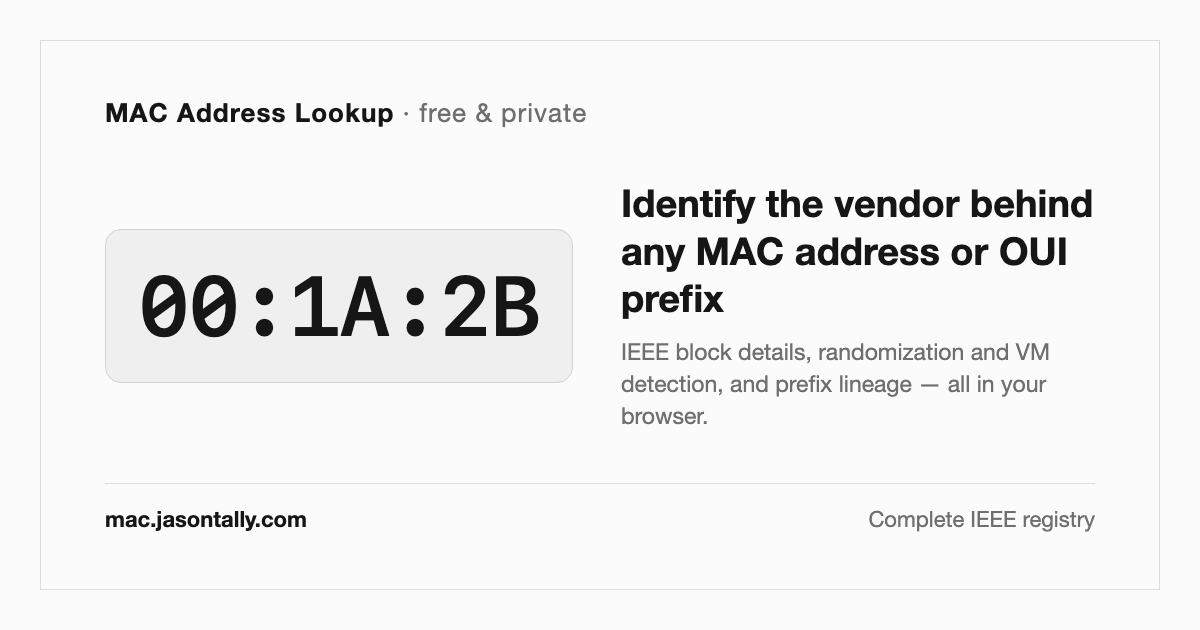
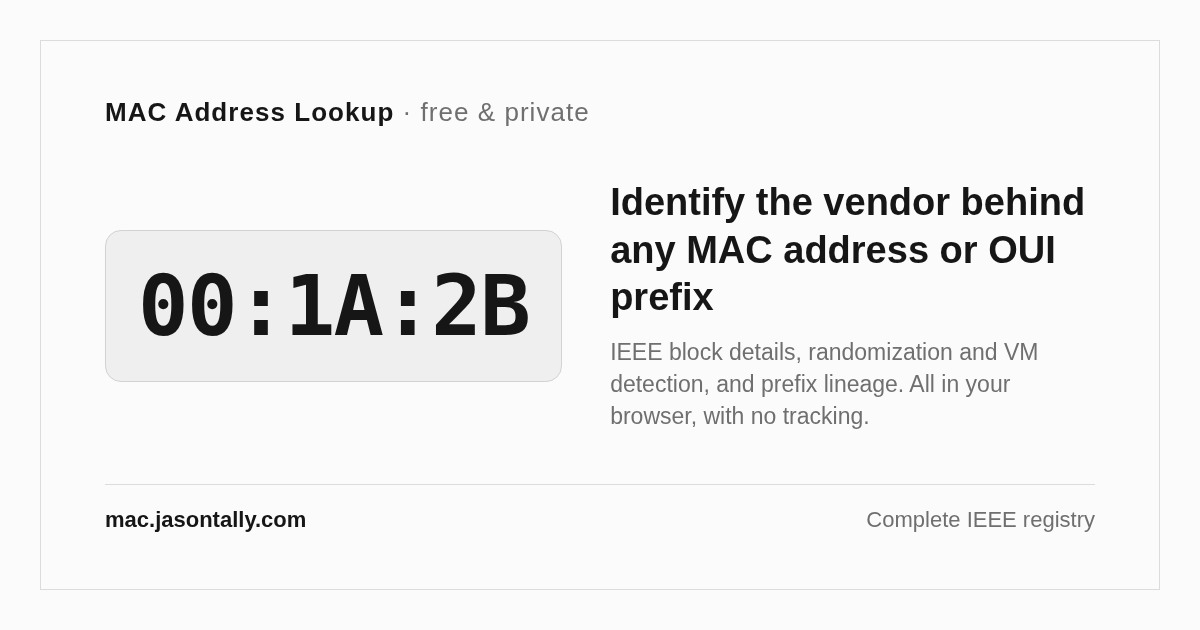
docs: launch-readiness copy pass across README, docs, help, and agent files
- README: split fused feature bullet; dedupe intro/privacy paragraphs;
  align hub/dimension page claims with the live URL surface; fix
  help.md label/target mapping; CSS size 16->18 KB
- docs: architecture.md drift fixes (batch cap 250, lineage ~240 KB,
  sitemap-scope reality, footer -> home hub-nav links, e2e usage);
  thin-content-mitigation.md and design.md staleness notes
- generators: agent-files.mjs privacy wording per resolved Open item #1,
  31-language claims with RTL triplet; og-card em dash removed and
  regenerated
- help.html: language-support paragraph, dimension-index cross-reference,
  footer help link
- i18n: add missing en.mjs batch.exportCsv/exportJson keys (English batch
  view rendered raw i18n keys); update two e2e specs to the current
  footer/nav reality

Verified: npm test (153 pass), npm run build, npm run test:e2e (42 pass),
locale-sweep (31/31), i18n-audit clean.

diff --git a/public/help.html b/public/help.html
@@ -110,6 +110,10 @@
             multicast addresses, and the U/L bit marks locally administered addresses such as randomized
             privacy addresses and virtual machines.
           </p>
+          <p>
+            The interface runs in 31 languages (English plus 30 translations; Urdu, Arabic, and Persian
+            render right-to-left): switch it with the language picker in the header's toolbar.
+          </p>
 
           <h2 data-i18n="help.blockTypes">MAC address block types</h2>
           <div class="table-wrap">
@@ -143,7 +147,8 @@
           <h2>Browse by registration dimension</h2>
           <p>
             Besides prefix pages, the site pre-renders reference pages organized by the
-            registration itself, each with its complete table:
+            registration itself, each with its complete table. The home page links
+            every index under "MAC address by":
           </p>
           <ul>
             <li><a href="/country">Country index</a> - <code>/country</code>: every country with at least one registered MAC address block, with organization, block, and address totals, each row linking the country's full page.</li>
@@ -193,6 +198,7 @@
         </p>
         <p>
           <span data-i18n="footer.dataNote">All lookups run in your browser, and the addresses you look up are never processed by a server.</span>
+          <a href="/help" data-i18n="footer.help">Help &amp; documentation</a> ·
           <a href="https://github.com/jasontally/mac-address-lookup" rel="noopener" data-i18n="footer.source">Source on GitHub</a>
         </p>
       </div>

diff --git a/docs/architecture.md b/docs/architecture.md
@@ -6,7 +6,7 @@ Related docs: [design language](design.md) · [README](../README.md)
 
 ## Overview
 
-A static, assets-only Cloudflare Worker serving a client-side MAC address lookup tool. Pre-rendered HTML pages cover the largest and most-searched IEEE prefixes so search engines can index them and people can find them; everything else (trimmed long-tail prefixes, full-MAC deep links, is resolved in the browser via the SPA fallback. The registry and its prefix-lineage history ship as two small Parquet files read with Hyparquet. No server code, no API, no in-app analytics. The project is feature-complete; this document is the maintenance reference.
+A static, assets-only Cloudflare Worker serving a client-side MAC address lookup tool. Pre-rendered HTML pages cover the largest and most-searched IEEE prefixes so search engines can index them and people can find them; everything else (trimmed long-tail prefixes, full-MAC deep links) is resolved in the browser via the SPA fallback. The registry and its prefix-lineage history ship as two small Parquet files read with Hyparquet. No server code, no API, no in-app analytics. The project is feature-complete; this document is the maintenance reference.
 
 ```
 Build (Workers Builds)                          Runtime (Cloudflare edge)
@@ -26,12 +26,12 @@ Build (Workers Builds)                          Runtime (Cloudflare edge)
 | Hosting | Cloudflare Workers Static Assets, assets-only (no Worker script), paid plan |
 | Fallback | `not_found_handling: "single-page-application"` → `200` + shell for unmatched paths |
 | Data | Apache Parquet files (registry + lean search index + lineage), read in-browser with Hyparquet; Apache Arrow JS not used |
-| Indexing | Pre-rendered priority tiers, flat `<prefix>.html` pages, canonical uppercase URLs, sitemap for pre-rendered pages only (provisional) |
+| Indexing | Pre-rendered priority tiers, flat `<prefix>.html` pages, canonical uppercase URLs, sitemap covers the pre-rendered pages selected by the active `SITEMAP_SCOPE` (currently `country`: core + rollups + country hubs + dimension pages; still provisional — see the sitemap indexing plan) |
 | Design | Kumo-inspired semantic tokens, monochrome + status colors, system font stack, system-aware dark mode + toggle |
 | Deep links | Every single-segment path: `/001A2B`, `/apple`, `/001A2B,005056` (comma-separated batch, cap 250); legacy `?q=` still accepted and canonicalized to the path form |
 | Partials | < 6 hex lists matching prefixes, capped at 500 with total count |
 | Build/deploy | Cloudflare Workers Builds, push-triggered; manual data refresh by bumping `data/refresh.txt` |
-| Analytics | None in the app; seed vendor-demand list drives page priority |
+| Analytics | None in the app; seed vendor-demand list drives page priority; the Cloudflare zone injects privacy-first, cookieless Web Analytics (resolved 2026-09-21, see Open items #1) |
 
 ## Repository layout
 
@@ -80,7 +80,7 @@ mac-address-lookup/
 2. **Fetch lineage** (`build/fetch-lineage.mjs`): the runZero mac-tracker history JSON (MIT, updated twice daily) — dated `add`/`change` records per prefix going back to ~1998. Uses the same retry helper as the registries.
 3. **Normalize registries**: trim and validate hex assignments; uppercase; derive `prefixLength` (24/28/36 bits), `addressCount`, and `country` (parsed from the address tail); mark `Private`/empty organizations; dedupe; sort by prefix value.
 4. **Build lineage** (`build/lineage.mjs`): normalize organization names (case, punctuation), drop `Private`/empty glitches, collapse consecutive identical organizations, and keep prefixes with at least two distinct organizations. `buildFirstSeen` also derives the earliest observed date for every tracked prefix. **Measured 2026-09-12: 5,665 changed prefixes / 14,350 events.**
-5. **Write Parquet** (`dist/data/registry.<hash>.parquet`, prefix-trie shards under `dist/data/shards/`, and `lineage.<hash>.parquet`) with `hyparquet-writer`, snappy compression. Registry columns: `prefix`, `prefixLen` (bits), `blockType`, `addressCount`, `orgName`, `orgAddress`, `country`, `isPrivate`, `firstSeen`, `lineageCount` (events for changed prefixes), `vendorBlocks`, `vendorAddresses` (global vendor totals repeated per row so a single shard reports correct portfolio stats), `vendorHub` (hub slug for orgs with ≥ 2 blocks — see [thin-content-mitigation](thin-content-mitigation.md); additive, resolved at build time so client links and static hub files always agree). Shards split any prefix group over 1,500 rows by the next hex digit, so hot ranges (IAB under `00:50:C2`, MA-S under `8C:1F:64`) get deep keys while quiet ranges stay shallow. **Measured 2026-09-23: registry 3.11 MB / 58,783 records; lineage 232 KB; search index 1.22 MB; 293 shards totaling 4.59 MB.**
+5. **Write Parquet** (`dist/data/registry.<hash>.parquet`, prefix-trie shards under `dist/data/shards/`, and `lineage.<hash>.parquet`) with `hyparquet-writer`, snappy compression. Registry columns: `prefix`, `prefixLen` (bits), `blockType`, `addressCount`, `orgName`, `orgAddress`, `country`, `isPrivate`, `firstSeen`, `lineageCount` (events for changed prefixes), `vendorBlocks`, `vendorAddresses` (global vendor totals repeated per row so a single shard reports correct portfolio stats), `vendorHub` (hub slug for orgs with ≥ 2 blocks — see [thin-content-mitigation](thin-content-mitigation.md); additive, resolved at build time so client links and static hub files always agree). Shards split any prefix group over 1,500 rows by the next hex digit, so hot ranges (IAB under `00:50:C2`, MA-S under `8C:1F:64`) get deep keys while quiet ranges stay shallow. **Measured 2026-09-23: registry 3.11 MB / 58,783 records; search index 1.22 MB; 293 shards totaling 4.59 MB; the lineage file was 232 KB then and ~240 KB at the 2026-09-25 refresh.**
 6. **Emit manifest** (`dist/data/manifest.json`): content-hashed filenames, `generatedAt`, counts by block type, schema version, and lineage source attribution (name, homepage, license, retrieval time).
 7. **Budget checks** (`build/budget.mjs`): file-count and file-size assertions — see [Capacity & page budget](#capacity--page-budget).
 
@@ -112,7 +112,7 @@ The data lives in its own Parquet file so it can be updated, attributed, and rea
 ## Client engine
 
 - **Loading**: the app fetches `data/manifest.json`, then loads only what the input needs. Full addresses and 6+ hex prefixes select the trie shards whose keys are prefixes of the input (usually one small file); partial prefixes select the shards that extend the input (up to 24, then the full registry). Free-text search and wide batches use the full registry, and only search (which matches former owners) loads the lineage file eagerly. On dynamic deep links an inline head script preloads the manifest and the matching shard(s) before the app bundle runs, and `loadRegistryFor` consumes those promises instead of refetching. Pre-rendered pages do not load any data at all; the embedded record covers the initial render.
-- **Lazy lineage**: registry rows carry `lineageCount`, so a matched prefix without lineage never fetches the 232 KB lineage file. Changed prefixes load it (before first render, so the timeline is inline and nothing shifts); search loads it for former-owner matching.
+- **Lazy lineage**: registry rows carry `lineageCount`, so a matched prefix without lineage never fetches the ~240 KB lineage file. Changed prefixes load it (before first render, so the timeline is inline and nothing shifts); search loads it for former-owner matching.
 - **Lineage**: `createLineageIndex` groups event rows per prefix and exposes `forPrefix(prefix)`; `loadRegistry` returns `{ manifest, registry, lineage }`.
 - **Normalization**: strip separators (`:` `-` `.` space), uppercase, validate `[0-9A-F]`, accept 1–12 hex digits.
 - **Lookup**: longest-prefix match over 9-hex (MA-S/IAB), 7-hex (MA-M), 6-hex (MA-L/CID), using a first-byte index over sorted prefix arrays.
@@ -121,7 +121,7 @@ The data lives in its own Parquet file so it can be updated, attributed, and rea
 - **VM/hypervisor detection**: known prefix map (VMware, VirtualBox, Microsoft Hyper-V/Virtual PC, Parallels, Xen, QEMU/KVM, Docker).
 - **Format conversions**: colon, hyphen, Cisco dot, plain hex, EUI-64, IPv6 link-local.
 - **Input routing**: a valid address/prefix is looked up directly; otherwise full MACs are extracted from pasted text; if none are found, the input is treated as a free-text search.
-- **Text extraction** (`extractMacs`): colon, hyphen, Cisco-dot, space-separated, and bare 12-hex formats; bare matches require clean boundaries so UUID tails and longer identifiers are ignored; deduped, capped at 100.
+- **Text extraction** (`extractMacs`): colon, hyphen, Cisco-dot, space-separated, and bare 12-hex formats; bare matches require clean boundaries so UUID tails and longer identifiers are ignored; deduped; batch caps at 250 (`MAX_BATCH` in `src/ui/app.mjs`).
 - **Free-text search** (`searchRegistry`): matches current organizations, former organizations from lineage, country names and codes, registry types, prefixes, and registration years; all tokens must match; ranked by match quality; capped at 500; results are `noindex`.
 - **Summaries** (`summarizeLookups`): batch and extraction views show counts by vendor, randomized addresses, virtual machines, unregistered prefixes, and invalid inputs.
 - **Vendor portfolios** (`registry.portfolio`): registered block count and total address space per organization, shown on results with a "View all prefixes" action that navigates to the org's static hub (`/vendor/<slug>`, resolved via the registry's `vendor_hub` column); search-result portfolio lines link there too.
@@ -136,7 +136,7 @@ The data lives in its own Parquet file so it can be updated, attributed, and rea
 - `src/ui/theme.mjs` — system-aware dark mode with explicit override
 - `src/ui/clipboard.mjs` — copy buttons with insecure-context fallback
 - `public/index.html` — indexable shell (search + FAQ); the app hydrates results on top
-- esbuild bundles `app.mjs` + engine + Hyparquet into `dist/assets/app.<hash>.js` (~91 KB); CSS is bundled into one hashed ~16 KB file
+- esbuild bundles `app.mjs` + engine + Hyparquet into `dist/assets/app.<hash>.js` (~91 KB); CSS is bundled into one hashed ~18 KB file
 
 ## Platform constraints
 
@@ -219,7 +219,7 @@ Dropped prefixes still work: the client-side engine resolves every assignment, a
 
 ### 25 MiB file-size strategy
 
-- Full-registry Parquet measured at 3.11 MB + 232 KB, well under 25 MiB. Measure at build time.
+- Full-registry Parquet measured at 3.11 MB + ~240 KB, well under 25 MiB. Measure at build time.
 - **Build-time assertion**: any single asset > 20 MiB (5 MiB safety margin) fails the build and triggers sharding instead of shipping.
 - **Sharding plan** (implemented): records are partitioned into a prefix trie where any group over 1,500 rows splits by the next hex digit, producing variable-length keys. The client selects shards by prefix relationship (ancestors for full addresses, descendants for partials) and falls back to the full registry beyond 24 shards. Each shard file is content-hashed and cached immutably.
 - **Sitemaps** chunk at 50,000 URLs (Google limit), targeting < 10 MiB per file.
@@ -248,8 +248,8 @@ a second block), so the portal/prefix split inside the 90,000 cap self-balances.
 - **Related-prefix links** (`build/related.mjs`): same-org siblings (≤ 6), adjacent prefixes (2), same-year cohort (≤ 4), deduped and capped at 12 links per page, targets limited to pre-rendered pages. Sections live inside `#result`, so a follow-up lookup clears them with the card ([thin-content-mitigation](thin-content-mitigation.md)).
 - **Per-page context** (`build/enrich.mjs`): at most three computed sentences — portfolio position (`vendorBlocks`/`vendorAddresses`), block-type note for non-MA-L assignments, and a "org's oldest registration" note. English rendered statically; raw params ride in `data-enrich` for the client locale swap. Omitted, never padded, when data is missing.
 - **Hub pages** (`build/hubs.mjs`): `/vendor/<slug>` for every org with ≥ 2 blocks (3,472; grouping uses the same `normalizeOrgName` key as the portfolio stats, slugs resolve collisions by sorted org key) and `/country/<code>` for every country (127). Complete static tables (no row caps — the plan's sizing holds: Apple 240 KB, US 1.3 MB raw; ~10:1 compression at the edge), lookup form wired via the static-page path, `CollectionPage` + `BreadcrumbList` JSON-LD, canonical URLs, `data-static-page` hydration. Every country-table row is a link: multi-block orgs go to their org hub, single-block orgs (29,897 of the 33,567 rows) to the pre-rendered page of their only block, and both are checked against the page-budget selection so a row never targets the SPA shell.
-- **Country rollup index** (`/country`, 2026-09-22): the page over the 127 country pages — one row per country (linked name, ISO code, organizations, blocks, addresses) sorted by address space, with the totals in the lede (blocks and addresses summed; organizations counted **distinct**, since one org can register in several countries). Written as root-level `country.html` beside the `country/` directory so the canonical is extensionless `/country` like `/help` and `/recent`; it leads the `country` sitemap scope, is the breadcrumb parent of every country page (`renderPage`'s `breadcrumbParent`), and is linked from every footer except its own (`footer.countries`), plus `/help` and the agent files (`llms.txt`, `help.md`).
-- **Vendor rollup index** (`/vendor`, 2026-09-23): the page over the 3,472 vendor pages — one row per organization with two or more blocks (linked name, blocks, addresses) sorted by address space, with the totals in the lede (blocks and addresses summed; one row per organization). Written as root-level `vendor.html` beside the `vendor/` directory so the canonical is extensionless `/vendor`; it leads the `country` sitemap scope alongside `/country` (build.mjs), is the breadcrumb parent of every vendor page (`renderPage`'s `breadcrumbParent`), and is linked from every footer except its own (`footer.vendors`), plus `/help` and the agent files (`llms.txt`, `help.md`).
+- **Country rollup index** (`/country`, 2026-09-22): the page over the 127 country pages — one row per country (linked name, ISO code, organizations, blocks, addresses) sorted by address space, with the totals in the lede (blocks and addresses summed; organizations counted **distinct**, since one org can register in several countries). Written as root-level `country.html` beside the `country/` directory so the canonical is extensionless `/country` like `/help` and `/recent`; it leads the `country` sitemap scope, is the breadcrumb parent of every country page (`renderPage`'s `breadcrumbParent`), and is linked from the home page's hub nav (`hub.nav.countries`), plus `/help` and the agent files (`llms.txt`, `help.md`).
+- **Vendor rollup index** (`/vendor`, 2026-09-23): the page over the 3,472 vendor pages — one row per organization with two or more blocks (linked name, blocks, addresses) sorted by address space, with the totals in the lede (blocks and addresses summed; one row per organization). Written as root-level `vendor.html` beside the `vendor/` directory so the canonical is extensionless `/vendor`; it leads the `country` sitemap scope alongside `/country` (build.mjs), is the breadcrumb parent of every vendor page (`renderPage`'s `breadcrumbParent`), and is linked from the home page's hub nav (`hub.nav.vendors`), plus `/help` and the agent files (`llms.txt`, `help.md`).
 - **Dimension pages** (`build/dimensions.mjs`, 2026-09-25): registry type
   (`/registry/<type>`), first-observed year (`/year/<year>`), region
   (`/region/<slug>`), ownership history (`/history/<year>` and
@@ -278,7 +278,7 @@ a second block), so the portal/prefix split inside the 90,000 cap self-balances.
 - Dynamic routes start the manifest and Parquet fetches from an inline head script, in parallel with the app bundle download.
 - Content below the result is hidden until a dynamic lookup renders (removing the layout shift from inserting the result card; desktop CLS was 0.296 before this change).
 - Asset filenames are content-hashed and cached immutably; the manifest is always revalidated.
-- Prefix-trie sharding cuts a dynamic deep link from the 3.1 MB full registry to one small shard (the `001B` example is 30 KB), and lazy lineage keeps the 232 KB lineage file out of lookups entirely unless the matched prefix changed hands. Measured payload for `/001B21AABBCC` is ~150 KB including JS, CSS, manifest, and shard (vs ~3.35 MB before sharding); changed prefixes add the lineage file.
+- Prefix-trie sharding cuts a dynamic deep link from the 3.1 MB full registry to one small shard (the `001B` example is 30 KB), and lazy lineage keeps the ~240 KB lineage file out of lookups entirely unless the matched prefix changed hands. Measured payload for `/001B21AABBCC` is ~150 KB including JS, CSS, manifest, and shard (vs ~3.35 MB before sharding); changed prefixes add the lineage file.
 
 ### Measured limits (2026-09-15, `e2e/measure-limits.mjs` / `e2e/measure-engine.mjs`)
 
@@ -302,7 +302,7 @@ production edge.
 For AI agents and scripts that cannot reasonably ingest the 13.6 MB
 `registry.ndjson` (verified live: a ChatGPT web tool refuses it at its content-size
 limit, and binary Parquet is refused as `application/octet-stream`), the build
-also emits the same registry rows as plain-text trie shards:
+also emits the same assignments as plain-text trie shards:
 
 - `dist/data/registry/{key}.txt` — one JSON object per line (same schema as
   `registry.ndjson`), grouped by the same trie partition as the browser Parquet
@@ -362,9 +362,9 @@ live and internally linked in every phase, so trimming rows cannot deindex
 anything already indexed, and prefix pages Google already knows about are
 unaffected. What actually drives hub discovery without the sitemap is internal
 linking — every prefix page links its vendor/country/former hubs and related
-prefixes, every country page breadcrumbs up to `/country`, and every footer
-carries a Countries link, so the indexed subset keeps the rest of the graph
-reachable.
+prefixes, every country page breadcrumbs up to `/country`, and the home page's
+hub nav carries a Countries link, so the indexed subset keeps the rest of the
+graph reachable.
 
 | Phase | `SITEMAP_SCOPE` | Sitemap URLs | Flip when (Search Console gate, user-side) |
 | --- | --- | --- | --- |
@@ -392,13 +392,22 @@ vendor hubs, `/recent` rows linking hubs) before retrying expansion.
 them (+30 over the pre-multilingual counts). (2026-09-22) the default moved
 from `core` to `country` — country hubs are the second-rarest page class, they
 are the target of the prefix pages' country links, and the IndexNow manifest
+**Notes:** (2026-09-18) "core" includes the 30 localized home pages
+(`/lang/{locale}/`; see the multilingual plan below), so every scope carries
+them (+30 over the pre-multilingual counts). (2026-09-22) the default moved
+from `core` to `country` — country hubs are the second-rarest page class, they
+are the target of the prefix pages' country links, and the IndexNow manifest
 (`finalizePageHashes`) intersects changed URLs with the same scope, so the
 country pages now ride along in post-deploy pings too. (2026-09-22, same day)
 the country set gained the `/country` rollup index as its first row, so the
 scope was 283 URLs (33 core + 1 index + 249 hubs); (2026-09-23) the `/vendor`
 rollup joined it — 284 URLs (33 core + 2 indexes + 249 hubs); later the same
 day the ISO-code country fix pruned the invalid-code hubs — 162 URLs (33
-core + 2 indexes + 127 hubs).
+core + 2 indexes + 127 hubs). (2026-09-25) the dimension pages joined the mix
+(`/registry`, `/year`, `/region`, `/history`, `/successor` indexes + detail
+pages in the `country` scope — see the Pre-rendered pages section); the
+current build's `country` scope renders 539 URLs, and the `hubs`/`all` phase
+counts above predate that and will be larger when they ship.
 
 ## Multilingual discoverability plan (Tier 1 + Tier 2, 2026-09-18)
 
@@ -452,13 +461,14 @@ other languages. The former `src/i18n/seo.mjs` / `seoFor` are now
   head phrase of the authored home titles in `src/i18n/discovery.mjs`. The
   English "MAC Address Lookup" remains the canonical name in crawlable
   HTML, JSON-LD, `og:site_name`, and the fallback `en` table.
-- **Punctuation policy (2026-09-21):** no em dashes. Titles separate the
-  page part from the brand with `|`; the identifier inside a title is
-  parenthesized (`00:1A:2B (Intel Corporate)`); peer items inside one
-  string separate with ` · `; spec/definition clauses use `:`; appositive
-  clauses use `,`; two independent clauses use `, and` or a sentence
-  split; empty-value table cells render `-`. Exception: the IEEE registry
-  data (org names/addresses) keeps its em dashes verbatim, as do
+- **Punctuation policy (2026-09-21):** no em dashes in generated or UI
+  strings (the project's docs still use them in running prose). Titles
+  separate the page part from the brand with `|`; the identifier inside a
+  title is parenthesized (`00:1A:2B (Intel Corporate)`); peer items inside
+  one string separate with ` · `; spec/definition clauses use `:`;
+  appositive clauses use `,`; two independent clauses use `, and` or a
+  sentence split; empty-value table cells render `-`. Exception: the IEEE
+  registry data (org names/addresses) keeps its em dashes verbatim, as do
   Slavic-language copula dashes in ru/uk translations.
 
 ## Build & deployment
@@ -469,12 +479,11 @@ other languages. The former `src/i18n/seo.mjs` / `seoFor` are now
 - **Per-page change dates (2026-09-21):** the same hash manifest is the single source of truth for page freshness off the sitemap too. Prefix pages, hubs, and `/recent` embed each page's own last-change date twice — a footer `<time>` line ("Data refreshed <date>") and JSON-LD `dateModified` (prefix pages as `Dataset`, hubs as `CollectionPage`) — and always the same date as that URL's sitemap `<lastmod>`. Renderers use a two-pass contract (`render → record → re-render with the refresh date only if the bytes differ from the deployed page`), so an unchanged page keeps byte-identical output (and its old date), while a changed page converges to `dateModified = lastmod = refreshDate`. No wall-clock stamps, no per-refresh footers (a changed footer date on an otherwise unchanged page would re-date everything and teach Google the dates are meaningless), and the IEEE registration dates on a page are never reused as `dateModified` or `datePublished` (they describe the data, not the page). The home/help shells carry no static dates; their client-filled date (`manifest.refreshDate`) describes the dataset refresh, not the page.
 - **IndexNow (post-deploy, Cloudflare-side):** `build/indexnow.mjs` runs after `wrangler deploy` (much of the deployed set is chunked ≤10,000 URLs per POST to `api.indexnow.org`; the key/ownership file lives at `/{key}.txt` from `public/`). The build emits `dist/data/indexnow.json` = the URLs whose bytes changed this build, intersected with the current sitemap scope (finalizePageHashes) — so the ping covers exactly changed pages the sitemap already promotes, and sends an empty manifest when nothing changed (Bing, Yandex, Seznam, Yep consume IndexNow; Google does not). Ping failures never fail the deploy. Regenerate the og-card (og:image/twitter:card on every page) with `node build/make-og-card.mjs` when the site copy changes.
 - **Manual data refresh:** bump the date in `data/refresh.txt` and push; the commit triggers a rebuild that re-fetches the registries. The **daily** GitHub Action does this automatically when sources change (see [Source resilience & data refresh](#source-resilience--data-refresh)), and forces a monthly refresh so indexed pages stay current.
-- **Local development:** `npm install`; `npm run build` (or `npm run build -- --no-pages` for quick iterations, `PAGE_BUDGET=500 npm run build` to limit pages); `npm run serve` previews `dist/` at `http://localhost:8788` with the SPA fallback; `npm test` runs the unit tests; `node build/check-sources.mjs` performs the weekly source check locally.
+- **Local development:** `npm install`; `npm run build` (or `npm run build -- --no-pages` for quick iterations, `PAGE_BUDGET=500 npm run build` to limit pages); `npm run serve` previews `dist/` at `http://localhost:8788` with the SPA fallback (or set `E2E_BASE_URL=http://localhost:8788` for `npm run test:e2e`); `npm test` runs the unit tests; `node build/check-sources.mjs` performs the weekly source check locally.
 - **Limits:** 3,000 build min/month free, 6,000 paid (+$0.005/min after); 20-minute build timeout; concurrent builds 1 free / 6 paid; paid build environment: 4 vCPU / 8 GB RAM / 20 GB disk.
 - **Runtime cost:** static asset requests are free and unlimited; an assets-only deployment has no billed Worker invocations.
 - **Measured duration:** ~6 minutes end-to-end for 62,763 files / ~753 MB (2026-09-16), comfortably inside the 20-minute timeout. Added page weight grows roughly linearly with the registry; the page budget (or a `PAGE_BUDGET` build variable) bounds upload time.
 - **No in-app analytics:** page-priority demand comes from the seed vendor list. The Cloudflare zone injects a Web Analytics beacon — see the analytics disclosure note in the open items.
-
 ## Production verification (2026-09-12)
 
 - Build + deploy: 58,701 assets uploaded; ~5 minutes end-to-end.
@@ -485,9 +494,8 @@ other languages. The former `src/i18n/seo.mjs` / `seoFor` are now
 
 ## Testing
 
-- Unit tests for normalization, longest-prefix matching, partial listing, bit flags, VM mapping, batch parsing, MAC extraction (including newline-collapsed text and UUID tails), input classification, shard selection and shard grouping, lineage event counting, free-text search, summaries, vendor portfolios, country names, schema-version guard, page selection/scoring, template escaping, sitemap chunking, and FAQ injection (Node's built-in `node:test`, no dependencies).
-- Synthetic fixtures only; no network access in tests.
-- Browser verification during development with Playwright against the local preview server (deep links, hydration skip, batch indexing rules, mobile overflow).
+- Unit tests for normalization, longest-prefix matching, partial listing, bit flags, VM mapping, batch parsing, MAC extraction (including newline-collapsed text and UUID tails), input classification, shard selection and shard grouping, lineage event counting, free-text search, summaries, vendor portfolios, country names, schema-version guard, page selection/scoring, template escaping, sitemap chunking, hub/index rendering, and FAQ injection (Node's built-in `node:test`, no dependencies).
+- Browser verification: `npm run test:e2e` runs the Playwright specs in `e2e/` (`lookup`, `thin-pages`, `lang-pages`) — by default against production, or a local build with `E2E_BASE_URL=http://localhost:8788 npm run test:e2e`. Ad-hoc Node scripts in the same directory (`locale-sweep`, `i18n-audit`, the `measure-*` benchmarks, Lighthouse runners) are run directly with `node`.
 
 ## Open items
 

diff --git a/README.md b/README.md
@@ -1,10 +1,10 @@
 # MAC Address Lookup
 
-Free, fast, **client-side MAC address vendor lookup**. Paste a full or partial MAC address (OUI prefix, MA-M, MA-S, IAB, or CID block) and instantly identify the organization behind it — everything runs in your browser with no backend, and the addresses you look up are never processed by a server.
+Free, fast, **client-side MAC address vendor lookup**. Paste a full or partial MAC address (OUI prefix, MA-M, MA-S, IAB, or CID block) and instantly identify the organization behind it — everything runs in your browser with no backend. We ask nothing of you: no ads, no cookies, no account, no tracking. The project came out of frustration with lookup pages wrapped in intrusive advertising: identifying a MAC vendor is a small utility, and it should be possible to build and host it for close to nothing.
 
 **[mac.jasontally.com](https://mac.jasontally.com)**
 
-The app does no tracking: there are no ads, no cookies, and every lookup runs in your browser, where the addresses you look up are never processed by a server. Normal requests still reach the host as with any website — a direct link such as `/apple` carries the term in its URL path, and the app fetches its public data files by URL — but the host only serves static files and runs no search code. The site is hosted on Cloudflare, which collects privacy-first, aggregate web analytics (Cloudflare Web Analytics) that use no cookies or client-side state and do not fingerprint individuals. Similar lookup pages are often wrapped in intrusive advertising, which is what prompted this project: identifying a MAC vendor is a small utility, and it should be possible to build and host it for close to nothing.
+The app does no tracking: there are no ads, no cookies, and every lookup runs in your browser, where the addresses you look up are never processed by a server. Normal requests still reach the host as with any website — a direct link such as `/apple` carries the term in its URL path, and the app fetches its public data files by URL — but the host only serves static files and runs no search code. The site is hosted on Cloudflare, which collects privacy-first, aggregate web analytics (Cloudflare Web Analytics) that use no cookies or client-side state and do not fingerprint individuals.
 
 ## Features
 
@@ -14,9 +14,10 @@ The app does no tracking: there are no ads, no cookies, and every lookup runs in
 - **Randomized MAC detection** — flags locally administered / privacy-randomized addresses instead of returning a misleading "unknown vendor"
 - **VM & hypervisor detection** — recognizes VMware, VirtualBox, Hyper-V, KVM, Docker, Xen, and similar ranges
 - **IEEE block details** — assignment type, block size, address range, registered country, and organization details
-- **Prefix lineage** — for prefixes that changed hands (acquisitions, renames), a timeline of organizations and when each change was first observed
+- **Prefix lineage** — for prefixes that changed hands (acquisitions, renames), a timeline of organizations and when each change was first observed. Shown only for the exact matched prefix, never inherited from parent or child blocks.
 - **Paste anything** — drop CLI output (`arp -a`, switch tables, logs) into the search box; every full MAC address inside is extracted and looked up, with non-address text ignored
-- **Vendor and former-owner search** — type a company name to list its prefixes; names from lineage match too ("Tekelec" finds the prefix that became Oracle), plus country names ("Germany"), registry types, and registration years- **Registration dates and portfolios** — first-registered dates for every prefix, and per-vendor block/address-space totals
+- **Vendor and former-owner search** — type a company name to list its prefixes; names from lineage match too ("Tekelec" finds the prefix that became Oracle), plus country names ("Germany"), registry types, and registration years
+- **Registration dates and portfolios** — first-registered dates for every prefix, and per-vendor block/address-space totals
 - **Format conversions** — see the address in every common notation
 - **URL-driven lookups** — no pasting required: `mac.jasontally.com/001A2B` renders the result directly. Batch lookups and vendor searches work the same way.
 - **Static & private** — the IEEE dataset loads in the browser; all searching, processing, and presentation happen locally, and the addresses you look up are never processed by a server. The app sets no cookies. The host (Cloudflare) collects privacy-first, cookieless, aggregate web analytics (Cloudflare Web Analytics).
@@ -37,6 +38,7 @@ Navigate directly to a result — no form submission needed. Everything after `/
 | `https://mac.jasontally.com/vendor` | Vendor index: every organization with two or more registered blocks |
 | `https://mac.jasontally.com/vendor/apple-inc` | Vendor page: every block registered to one organization |
 | `https://mac.jasontally.com/country/us` | Country page: every organization with registered blocks |
+| `https://mac.jasontally.com/country` | Dimension index rollups: `/country`, `/year`, `/region`, `/history`, `/successor` (each is its own table over the corresponding page family) |
 | `https://mac.jasontally.com/former/apple-computer` | Former-owner page: what happened to each renamed/reassigned block |
 | `https://mac.jasontally.com/?q=001A2B` | Legacy form (canonicalizes to `/001A2B`) |
 
@@ -44,9 +46,9 @@ The page consumes the value from the URL path and displays the result without an
 
 ## Pre-rendered pages
 
-A build step pre-renders a real HTML page for every registered IEEE assignment — each OUI (MA-L), MA-M, MA-S, IAB, and CID prefix — so that people can find the tool when they look up a prefix or a vendor in their own words. No brand is promoted as part of the app (and the title is translated into local words for each language) because an English-only brand name would make it harder to find for everyone else. Every page contains the vendor record without requiring JavaScript, and the interactive tool hydrates on top to resolve everything else in the browser: full addresses, partial prefixes, batch lists, vendor names, former owners, countries, and registration years. Generated pages include canonical URLs, schema.org metadata, `sitemap.xml`, and `robots.txt`. Sitemap: `https://mac.jasontally.com/sitemap.xml`.
+A build step pre-renders a real HTML page for every registered IEEE assignment — each OUI (MA-L), MA-M, MA-S, IAB, and CID prefix — so that people can find the tool when they look up a prefix or a vendor in their own words. Every page contains the vendor record without requiring JavaScript, and the interactive tool hydrates on top to resolve everything else in the browser: full addresses, partial prefixes, batch lists, vendor names, former owners, countries, and registration years. No brand is promoted as part of the app; the title is translated into local words for each language, because an English-only brand name would make it harder to find for everyone else. Generated pages include canonical URLs, schema.org metadata, `sitemap.xml`, and `robots.txt`. Sitemap: `https://mac.jasontally.com/sitemap.xml`.
 
-On top of the prefix pages, the build generates **vendor pages** (`/vendor/<slug>`, every block registered to one organization — 3,472 today) and **country pages** (`/country/<code>`, every organization with blocks registered in a country — 127), each family behind a rollup index — **`/vendor`** (every organization with two or more blocks) and **`/country`** (every country), both in the sitemap. The hub pages are complete static tables with no row caps, plus an internal relational link web: related-prefix sections (same vendor, adjacent prefixes, same registration year) on every prefix page, hub links from prefix pages, and org directory links on country pages. Rationale and capacity accounting: [`docs/thin-content-mitigation.md`](docs/thin-content-mitigation.md).
+On top of the prefix pages, the build generates **vendor pages** (`/vendor/<slug>`, every block registered to one organization — 3,472 today), **country pages** (`/country/<code>`, every organization with blocks registered in a country — 127), former-owner pages (`/former/<slug>`, 345), and registry/year/region/history/successor dimension pages (`/registry`, `/year`, `/region`, `/history`, `/successor`), each family behind its own rollup index — **`/vendor`** (every organization with two or more blocks) and **`/country`** (every country) are both in the sitemap. The hub pages are complete static tables with no row caps, plus an internal relational link web: related-prefix sections (same vendor, adjacent prefixes, same registration year) on every prefix page, hub links from prefix pages, org directory links on country pages, and the home page's "MAC address by" nav reaching every rollup index. Rationale and capacity accounting: [`docs/thin-content-mitigation.md`](docs/thin-content-mitigation.md).
 
 ## Data sources
 
@@ -58,14 +60,14 @@ On top of the prefix pages, the build generates **vendor pages** (`/vendor/<slug
 - `llms.txt` describes the site and data files for AI tools.
 - `/.well-known/ai-catalog.json` and `/.well-known/ard.json` are valid, empty ARD catalogs: the site publishes static data files rather than MCP servers or agents, and real JSON at those paths prevents the SPA fallback from serving HTML there.
 - **Full download:** `data/registry.ndjson` (~13.6 MB, one JSON object per IEEE assignment) and `data/lineage.ndjson` (ownership-change events).
-- **Small lookups without the full registry:** the same registry rows served as small `text/plain` trie shards at `data/registry/{key}.txt` (1–30 KB each, one JSON per line), indexed with row counts at `data/registry/index.txt`. Resolve a MAC by finding the longest shard key that is a prefix of its hex, fetching that shard, then longest-prefix matching within it. Example: `8C:1F:64:AF:A4:B2` → `data/registry/8c1f64af.txt` → row `8C1F64AFA` (MA-S, DATA ELECTRONIC DEVICES, INC) instead of its parent MA-L `8C1F64`. See [help.md](public/help.html) → *Using the data programmatically*.
+- **Small lookups without the full registry:** the same assignments served as small `text/plain` trie shards at `data/registry/{key}.txt` (1–30 KB each, one JSON per line), indexed with row counts at `data/registry/index.txt`. Resolve a MAC by finding the longest shard key that is a prefix of its hex, fetching that shard, then longest-prefix matching within it. Example: `8C:1F:64:AF:A4:B2` → `data/registry/8c1f64af.txt` → row `8C1F64AFA` (MA-S, DATA ELECTRONIC DEVICES, INC) instead of its parent MA-L `8C1F64`. See [help.md](public/help.html) → *Using the data programmatically* (`public/help.html` is the authored source; the same document is generated into `dist/help.md` + `dist/help.txt` by `build/agent-files.mjs`).
 
 ## Tech stack
 
 - Static HTML/CSS/JavaScript — no backend at runtime; all lookup work happens in the browser
-- Single client bundle built with esbuild (engine + Hyparquet inlined): ~91 KB JS / ~16 KB CSS, gzip-served by Cloudflare
+- Single client bundle built with esbuild (engine + Hyparquet inlined): ~91 KB JS / ~18 KB CSS, gzip-served by Cloudflare
 - IEEE dataset stored as [Apache Parquet](https://parquet.apache.org/) and read in-browser with [Hyparquet](https://github.com/hyparam/hyparquet) (pure JS, zero dependencies) — sharded by prefix so a lookup fetches a few KB instead of the full registry; no database or API
-- Pre-rendered prefix pages generated at build time so people can find the tool when they look up a prefix or a vendor
+- Pre-rendered prefix pages generated at build time so people can find the tool when they look up a prefix or a vendor — vendors, countries, former owners, and other registration dimensions get the same treatment (see above)
 - Deployed on Cloudflare Workers Static Assets (custom domain: `mac.jasontally.com`)
 - Architecture, platform constraints, and capacity planning: [`docs/architecture.md`](docs/architecture.md)
 - Design language and UX requirements: [`docs/design.md`](docs/design.md)

diff --git a/docs/thin-content-mitigation.md b/docs/thin-content-mitigation.md
@@ -45,7 +45,7 @@ Guardrails honored throughout (from the project owner, 2026-09-16):
 | Worst-case hub tables | Apple: 1,573 block rows (~240 KB raw, ~23 KB compressed) · US: 8,887 orgs (~1.3 MB raw, ~156 KB compressed) |
 | Dynamic display caps (measured 2026-09-15, `e2e/measure-limits.mjs`) | 500 rows display (23 ms throttled) · 250 batch · 5,000 rows renders in 296 ms at 4× throttle |
 | "Show all" full reveal (measured 2026-09-22, `e2e/measure-showall.mjs`) | Partials: `/00`'s 17,394 rows rebuild in 2,242 ms (1×) / 9,414 ms (4×); the hub un-hide measurement (8,885 rows = 4,091 ms at 4×) plus a real-phone <1 s reveal removed the static caps the same day | "(slow)" suffix past 1,500 rows, partial listings only |
-| Current non-page files | 3,247 — over the 2,000 non-page allowance (2,863 are `data/registry/*.txt` trie-key lookup shards); total 65,978 files ≤ the 92,000 budget |
+| Current non-page files | 3,247 — over the 2,000 non-page allowance (2,863 are `data/registry/*.txt` trie-key lookup shards); 2026-09-23 measurement, before the dimension pages |
 | Avg prefix-page size / total output | ~12.5 KB · ~828 MB |
 
 ## Cross-cutting design decisions
@@ -72,8 +72,9 @@ Guardrails honored throughout (from the project owner, 2026-09-16):
   through to the SPA shell's soft-404 handling (`noindex` + canonical to `/`).
 - **i18n:** every new visible label gets a `data-i18n` key in `src/i18n/en.mjs`, with
   `data-i18n-params` JSON attributes for interpolated values (the badge/banner
-  pattern). The other 28 locales fall back to English automatically; translations can
-  be added in a later pass (the `e2e/i18n-audit.mjs` tool flags what's missing).
+  pattern). The other locales fall back to English automatically; the
+  `e2e/i18n-audit.mjs` tool flags missing translations (all 30 are translated
+  today — verified by `e2e/locale-sweep.mjs`).
   Org names, prefixes, and counts are data and are not translated.
 - **Determinism:** link sets, hub membership, and slugs are pure functions of the
   sorted record set, so consecutive builds produce byte-stable output for unchanged
@@ -141,7 +142,9 @@ would land in the 2,000-file non-page allowance. Rework before generating any hu
 | Non-page files | 3,247 |
 | **Total** | **65,978 files (62,731 pages) = 66% of the 100,000 platform cap; 70% of the 90,000 page budget** |
 
-Sitemap grows 58,696 → ~62,420 URLs — still two 50k chunks. Hub HTML adds ~9 MB raw
+Sitemap grows 58,696 → ~62,420 URLs — still two 50k chunks at the time of
+writing (later scope changes and dimension pages have grown it again; see
+`build/generate-sitemaps.mjs` for the current chunk rule). Hub HTML adds ~9 MB raw
 (~8.9 MB across all hubs; every file far under the 20 MiB assertion). Page generation
 ~2.6 → ~3.0 s; deploy ~5 → ~5.5 min, well inside the 20-minute timeout.
 
@@ -256,9 +259,8 @@ stayed 200 only until `e2e/measure-limits.mjs` re-derived them from real timings
   instead of show-more, vendor-shaped queries gain a link to the complete static hub
   ("View all N prefixes") — the capped dynamic view and the complete static page
   complement each other.
-- **Doc sync:** `docs/design.md` still says partials are "capped at 200" — stale
-  against the measured 500. Update it to reference the measured caps and this
-  static-complete / dynamic-capped split.
+- **Doc sync:** `docs/design.md` previously said partials are "capped at 200" —
+  updated to the measured 500 and the static-complete / dynamic-capped split.
 
 This is a client-side change orthogonal to the discoverability steps; ship it with step 2 (same
 deploy) or separately — it does not gate steps 1 or 3.

diff --git a/docs/design.md b/docs/design.md
@@ -159,4 +159,4 @@ When a prefix has lineage (scope and provenance: [architecture](architecture.md#
 - [x] Addresses cells hold one line on desktop (`.data-table td.num`,
   `white-space: nowrap`); the stacked mobile layout wraps them onto a second
   line when needed.
-- [x] Data ops: Cloudflare Workers Builds triggered by push; manual refresh via a committed refresh date; no analytics initially.
+- [x] Data ops: Cloudflare Workers Builds triggered by push; manual refresh via a committed refresh date; no analytics in the app (the host collects Cloudflare's privacy-first, cookieless, aggregate Web Analytics — see the resolved analytics disclosure in [architecture](architecture.md#open-items)).
